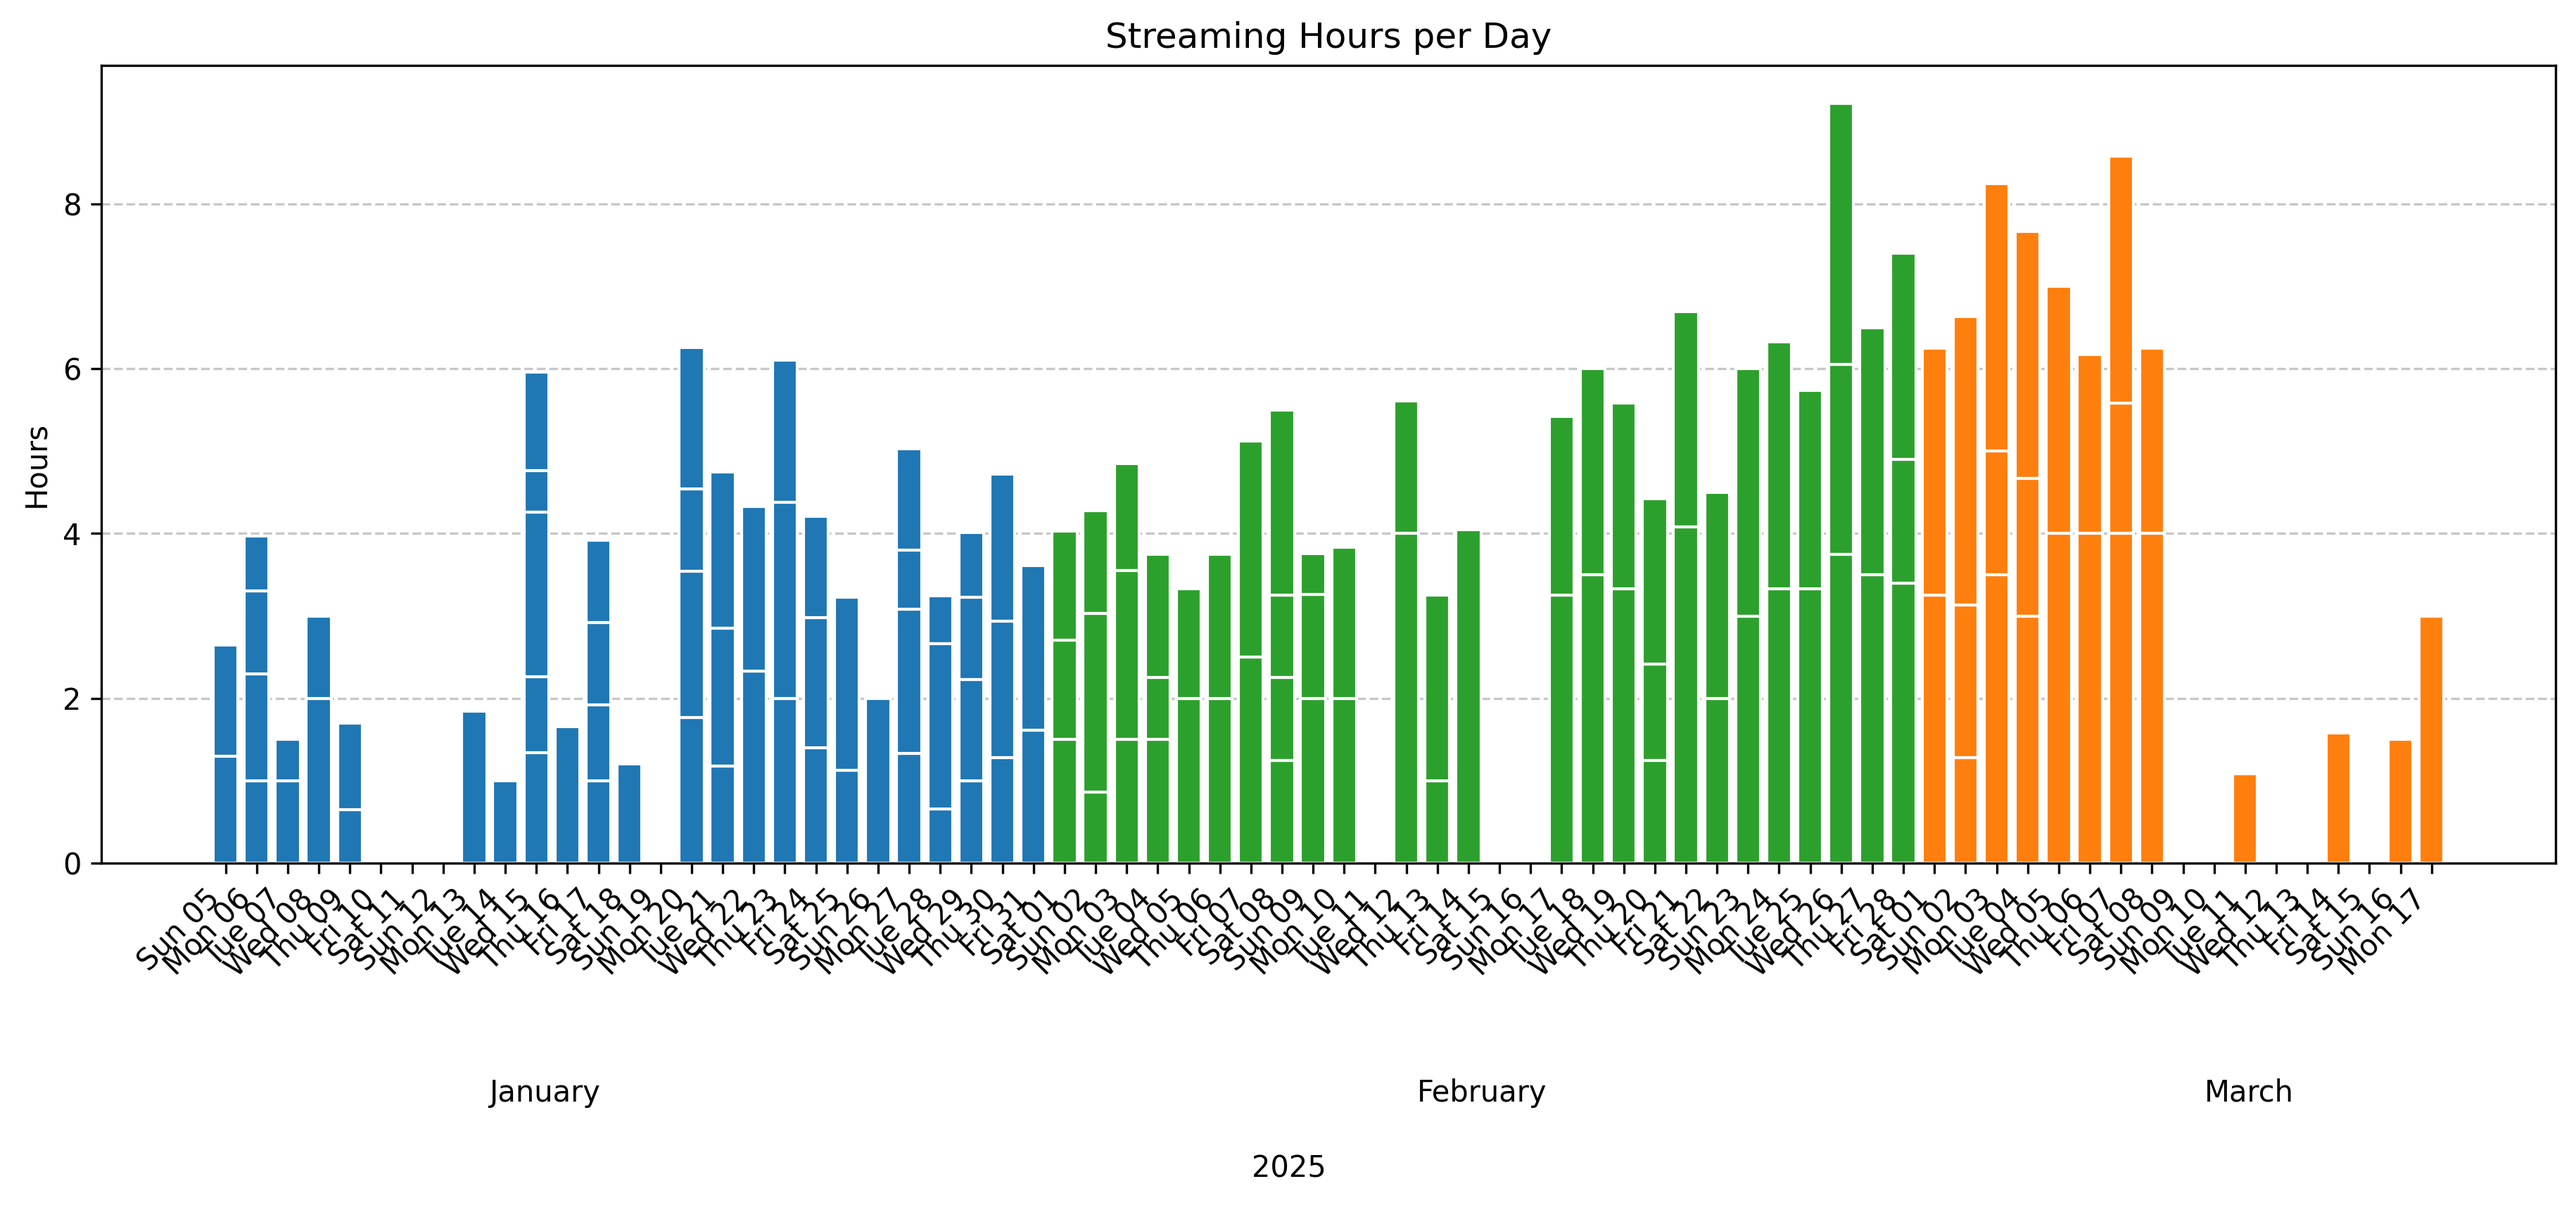
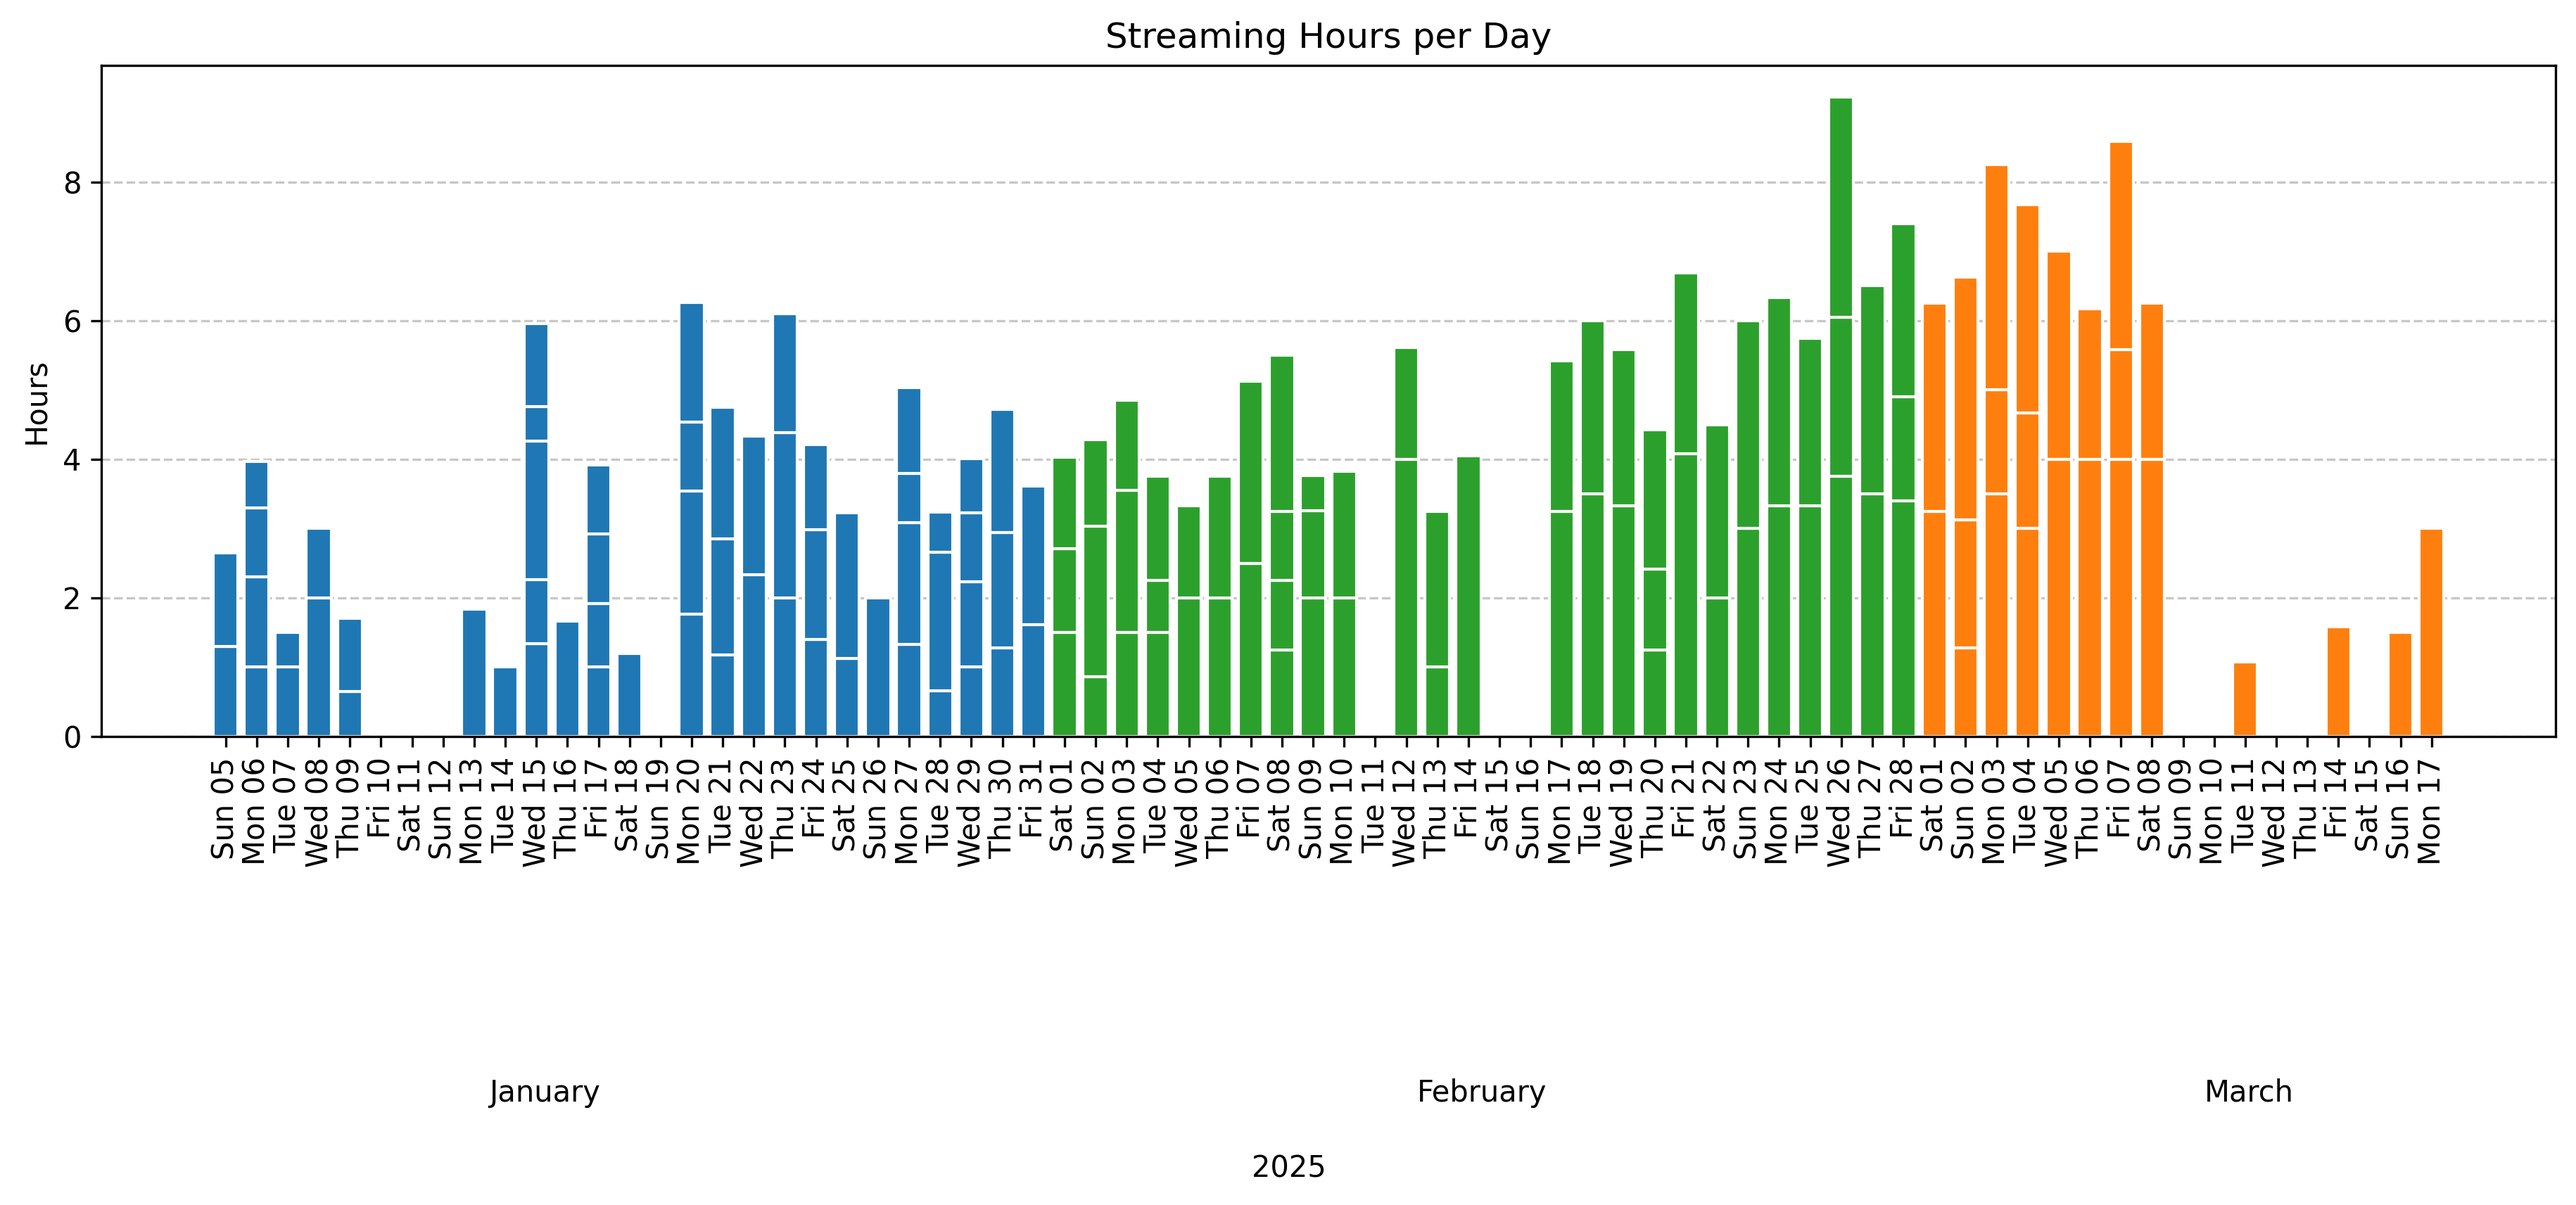
vertical dates

diff --git a/analyze_commits.py b/analyze_commits.py
@@ -159,7 +159,7 @@ for i, date in enumerate(complete_dates):
 # Configure x-axis with dates only
 ax = plt.gca()
 ax.set_xticks(range(len(complete_dates)))
-ax.set_xticklabels(date_labels, rotation=45, ha='right')
+ax.set_xticklabels(date_labels, rotation=90, ha='center')  # Changed rotation to 90 and ha to center
 
 # Find the indices for first and last day of each month
 current_month = datetime.strptime(complete_dates[0], '%Y-%m-%d').month
@@ -192,6 +192,6 @@ plt.grid(axis='y', linestyle='--', alpha=0.7)
 plt.gca().set_axisbelow(True)
 
 # Adjust layout with more bottom margin for month and year labels
-plt.subplots_adjust(bottom=0.25)
+plt.subplots_adjust(bottom=0.35)  # Increased bottom margin to accommodate vertical dates
 plt.savefig('progress_chart.png', dpi=300, bbox_inches='tight')
 plt.close()
